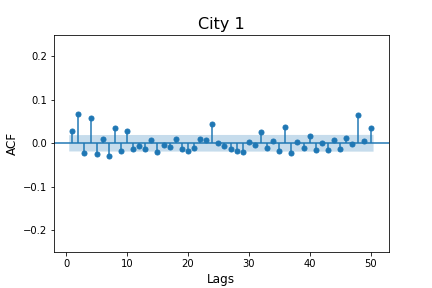
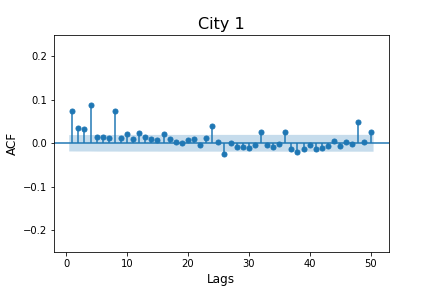
update metrics

Changed region(s): [[0.1505, 0.3438, 0.8125, 0.5625], [0.8125, 0.375, 0.8426, 0.4375], [0.8426, 0.4375, 0.8727, 0.4688]]

diff --git a/src/train.py b/src/train.py
@@ -9,6 +9,7 @@ from .models import LSTM, BiLinearPoolingLSTM, BiLinearPoolingAutoEncoderLSTM
 from .run import run_train, run_test, run_test_direction
 from .vis import results
 
+
 def train_speed_data(num_epochs=10):
     #read data
     print('Reading Data...')
@@ -16,14 +17,12 @@ def train_speed_data(num_epochs=10):
     # input and output size are the number of series (cities)
     output_size = 7
     input_size = [7, 7]
-    # hidden size is number of LSTM units, this means 32 as it's BiLSTM
     hidden_size = 16
-    # Only one layer of LSTM
     num_layers = 1
-    
+    hours_ahead = 10 #1 Hour ahead, change to (2, 5, 10, 20...etc)
+
+    print('Hours ahead: '+str(hours_ahead)+'H')
     print('Training LSTM model...')
-    # build time series features and labels
-    hours_ahead = 1 #1 Hour ahead, change to (5, 10, 50...etc)
     xtrain, xval, ytrain, yval = make_ready_data(train_data, feature='speed',
         gap=hours_ahead)
     xtest, ytest = make_ready_data(test_data, train=False, feature='speed', 
@@ -31,22 +30,18 @@ def train_speed_data(num_epochs=10):
     train_iter, val_iter, test_iter, device = build_dataloader(xtrain, xval, 
         xtest, ytrain, yval, ytest)
 
-    # build the model
     lstm_baseline = LSTM(output_size, input_size, hidden_size, num_layers)
     lstm_baseline = lstm_baseline.to(device)
-    # train the model
+    
     lstm_baseline = run_train(lstm_baseline, train_iter, val_iter, num_epochs=num_epochs, 
         features_set=1)
-    #now we test the model
     y_true, y_preds = run_test(lstm_baseline, test_iter, scaler, features_set=1)
     
-    print('Error Metrics...')
-    #print results
+    print('Error Metrics:')
     results(y_true, y_preds,feature_name = 'speed', plots=False)
 
     
     print('Training BiLinear LSTM model...')
-    # build time series features and labels including temperature time series
     xtrain, xval, ytrain, yval = make_ready_data(train_data, 
         feature='speed',gap=hours_ahead)
     xtrain_temp, xval_temp, _, _ = make_ready_data(train_data, 
@@ -63,32 +58,32 @@ def train_speed_data(num_epochs=10):
                                                            xtest_temp, 
                                                            add_temp=True)
 
-    #build BiLinear LSTM model and train
     lstm_model = BiLinearPoolingLSTM(output_size, input_size, hidden_size, 
         num_layers)
     lstm_model = lstm_model.to(device)
     lstm_model = run_train(lstm_model, train_iter, val_iter, num_epochs=num_epochs)
     y_true, y_preds = run_test(lstm_model, test_iter, scaler)
 
-    print('Error Metrics...')
+    print('Error Metrics:')
     results(y_true, y_preds,feature_name = 'speed', plots=False)
     
     print('Training AutoLSTM...')
-    #build autencoderLSTM model and train
     autoenc_lstm = BiLinearPoolingAutoEncoderLSTM(output_size, input_size, 
         hidden_size, num_layers)
     autoenc_lstm = autoenc_lstm.to(device)
     autoenc_lstm = run_train(autoenc_lstm, train_iter, val_iter, num_epochs=num_epochs, 
         outputs_nr=3)
     y_true, y_preds = run_test(autoenc_lstm, test_iter, scaler, features_set=2, outputs_nr=3)
-    print('Error Metrics...')
+    print('Error Metrics:')
     results(y_true, y_preds, feature_name = 'speed', plots=False)
 
 
 def train_direction_data(num_epochs=10):
     print('Reading Data...')
     train_data, test_data, scaler = read_raw_data()
-    hours_ahead = 1
+    hours_ahead = 10
+    
+    print('Hours ahead: '+str(hours_ahead)+'H')
     xtrain, xval, ytrain, yval = make_wind_direction_data(train_data, 
         gap=hours_ahead)
     xtest, ytest = make_wind_direction_data(test_data, train=False, 
@@ -105,7 +100,6 @@ def train_direction_data(num_epochs=10):
 
 
     print('Training LSTM...')
-    #build LSTM and train
     lstm_model = LSTM(output_size, input_size, hidden_size, num_layers)
     lstm_model = lstm_model.to(device)
     lstm_model = run_train(lstm_model, train_iter, val_iter, num_epochs=num_epochs,
@@ -113,10 +107,9 @@ def train_direction_data(num_epochs=10):
     y_true, y_preds = run_test_direction(lstm_model, test_iter, scaler, 
             features_set=1, output_sine=True)
 
-    print('Error Metrics...')
+    print('Error Metrics:')
     results(y_true, y_preds, feature_name = 'direction', plots=False)
 
-    #build fusion data
     xtrain_temp, xval_temp, _, _ = make_ready_data(train_data, 
             feature='temperature', gap=hours_ahead)
     xtest_temp, _ = make_ready_data(test_data, train=False, 
@@ -130,7 +123,6 @@ def train_direction_data(num_epochs=10):
             add_temp=True)
     
     print('Training BiLinear LSTM...')
-    #build LSTM with fusion and train
     input_size = [14, 7] # cosine+sine features = 14, tempretaure features = 7
     output_size = 14 # cosine+sine features = 14
     lstm_model = BiLinearPoolingLSTM(output_size, input_size, hidden_size, 
@@ -140,11 +132,10 @@ def train_direction_data(num_epochs=10):
     y_true, y_preds = run_test_direction(lstm_model, test_iter, scaler, 
             output_sine=True)
 
-    print('Error Metrics...')
+    print('Error Metrics:')
     results(y_true, y_preds, feature_name = 'direction', plots=False)
 
     print('Training AutoLSTM...')
-    #build AutoencoderLSTM and train
     model = BiLinearPoolingAutoEncoderLSTM(output_size, input_size, hidden_size, 
             num_layers)
     model = model.to(device)
@@ -152,6 +143,6 @@ def train_direction_data(num_epochs=10):
     y_true, y_preds = run_test_direction(model, test_iter, scaler, outputs_nr=3, 
             output_sine=True)
 
-    print('Error Metrics...')
+    print('Error Metrics:')
     results(y_true, y_preds, feature_name = 'direction', plots=False)
 

diff --git a/src/run.py b/src/run.py
@@ -18,7 +18,7 @@ def specs(model):
     return loss_fn, optimizer
 
 
-def validate(model, val_iter, loss_fn, features_set=2):
+def validate(model, val_iter, loss_fn, features_set=2, outputs_nr=1):
     model.eval()
     losses = []
         
@@ -26,13 +26,17 @@ def validate(model, val_iter, loss_fn, features_set=2):
         for data_batch in tqdm(val_iter):
             if features_set == 1:
                 x, y = data_batch
-                outputs = model(x)
+                if outputs_nr == 1:
+                    outputs = model(x)
+                else:
+                    outputs = model(x)[-1]
             else:
                 x1, x2, y = data_batch
-                outputs = model(x1, x2)
-
-            output_idx = -1
-            loss = loss_fn(outputs[output_idx].cpu(), y.cpu())
+                if outputs_nr == 1:
+                    outputs = model(x1, x2)
+                else:
+                    outputs = model(x1, x2)[-1]
+            loss = loss_fn(outputs.cpu(), y.cpu())
             losses.append(loss)
 
     mean_loss = np.mean(losses)
@@ -73,7 +77,7 @@ def run_train(model, train_iter, val_iter, num_epochs=10, features_set=2,
         
         train_loss = np.mean(losses)
         val_loss = validate(model, val_iter, loss_fn, 
-                features_set=features_set) 
+                features_set=features_set, outputs_nr=outputs_nr) 
     
         if epoch % 2 == 0:
             print('Epoch: ', epoch+1, ', Train Loss: ', 

diff --git a/main.py b/main.py
@@ -7,11 +7,11 @@ from src.train import train_speed_data, train_direction_data
 
 
 def main():
-    num_epochs=1
-    #print('Speed Data...')
-    #train_speed_data(num_epochs)
-    print('Direction Data')
-    train_direction_data(num_epochs)
+    num_epochs=10
+    print('Speed Data...')
+    train_speed_data(num_epochs)
+    #print('Direction Data')
+    #train_direction_data(num_epochs)
     
 if __name__ == '__main__':
     main()

diff --git a/README.md b/README.md
@@ -37,21 +37,22 @@ python main.py
 
 #### Error Metrics
 
-| Error | Model                        | 1H ahead | 5H ahead|10H ahead  |50H ahead    |
-|-------| ---------------------------- |:--------:|:-------:|:---------:|:-----------:|
-| MAE   | LSTM Baseline                |  8.99    |  13.73  |   17.74   |  18.91      |
-| MAE   | LSTM+BiLinPooling            |  7.30    |**9.38** |   11.55   |  17.33      | 
-| MAE   | AutoencoderLSTM+BiLinPooling | **6.62** |  9.88   | **10.97** |  **16.45**  |
-| RMSE  | LSTM Baseline                | 11.84    |  17.77  |   22.18   |  24.19      |
-| RMSE  | LSTM+BiLinPooling            | 10.82    |**13.43**|   16.18   |  22.81      |
-| RMSE  | AutoencoderLSTM+BiLinPooling |  **9.12**|  13.67  | **15.97** |  **21.85**  |
+| Error | Model                        | 1H ahead |2H ahead  | 5H ahead|10H ahead  |
+|-------| ---------------------------- |:--------::---------:|:-------:|:---------:|
+| MAE   | LSTM Baseline                |  8.86    | 10.26    |  13.73  |   16.36   | 
+| MAE   | LSTM+BiLinPooling            |  **5.73**| **6.69** |**9.38** |   10.72   | 
+| MAE   | AutoencoderLSTM+BiLinPooling |  6.74    | 7.17     |  9.88   | **10.97** | 
+|----------------------------------------------------------------------------------|
+| RMSE  | LSTM Baseline                |  11.72   | 13.49    |  17.77  |   20.95   | 
+| RMSE  | LSTM+BiLinPooling            |  **9.11**| **10.42**|**13.43**|   15.42   |  
+| RMSE  | AutoencoderLSTM+BiLinPooling |  9.54    |  10.46   |  13.67  | **15.97** | 
 
 #### Error Diagnostics for LSTM+BiLinPooling using wind speed data
-| City 1  | City 2 | City 6 |
+| City 1  | City 5 | City 7 |
 |---------------| ---------------------------|-------------------------------------- |
-| ![alt text](https://github.com/mhmdrdwn/NLweather/blob/main/plots/city1_error.png) | ![alt text](https://github.com/mhmdrdwn/NLweather/blob/main/plots/city2_error.png) | ![alt text](https://github.com/mhmdrdwn/NLweather/blob/main/plots/city6_error.png) |
+| ![alt text](https://github.com/mhmdrdwn/NLweather/blob/main/plots/city1_error.png) | ![alt text](https://github.com/mhmdrdwn/NLweather/blob/main/plots/city5_error.png) | ![alt text](https://github.com/mhmdrdwn/NLweather/blob/main/plots/city7_error.png) |
 
-**The ACF of the errors suggests that there is still a pattern in the residuals. This means the model is still not optimal which maybe can be optimized....**
+**The ACF of the errors suggests that there is still a little patterns in the test residuals that should have been captured by the model or another model. This means the model can still be optimized**
 
 #### Sample Visualization
 
@@ -64,31 +65,21 @@ python main.py
 
 #### Error Metrics (Sine of Degrees)
 
-| Error | Model                        | 1H ahead  | 5H ahead  |10H ahead  |50H ahead  |
-|-------| ---------------------------- |:---------:|:---------:|:---------:|:---------:|
-| MAE   | LSTM Baseline                |  0.196    |  0.305    |   0.388   |  0.537    |
-| MAE   | LSTM+BiLinPooling            |  0.165    |  0.249    |   0.290   |  0.494    |
-| MAE   | AutoencoderLSTM+BiLinPooling |  **0.163**|  **0.238**| **0.286** |  **0.470**|
-| RMSE  | LSTM Baseline                |  0.289    |  0.418    |   0.506   |  0.637    |
-| RMSE  | LSTM+BiLinPooling            |  **0.241**|  0.347    |   0.407   |  0.599    |
-| RMSE  | AutoencoderLSTM+BiLinPooling |  0.244    |  **0.338**| **0.396** |  **0.576**|
+| Error | Model                        | 1H ahead  | 2H ahead | 5H ahead  |10H ahead  |
+|-------| ---------------------------- |:---------:|:--------:|:---------:|:---------:|
+| MAE   | LSTM Baseline                |  0.196    | 0.222    |  0.305    |   0.388   | 
+| MAE   | LSTM+BiLinPooling            |  0.165    | **0.165**|  0.249    |   0.290   | 
+| MAE   | AutoencoderLSTM+BiLinPooling |  **0.163**| 0.169    | **0.238** | **0.286** | 
+| RMSE  | LSTM Baseline                |  0.289    | 0.318    |  0.418    |   0.506   | 
+| RMSE  | LSTM+BiLinPooling            |  **0.241**| **0.258**|  0.347    |   0.407   | 
+| RMSE  | AutoencoderLSTM+BiLinPooling |  0.244    | 0.259    | **0.338** | **0.396** | 
 
 
 #### Error Metrics (Degrees)
 
 **N.B. Degrees can be misleading as directions 0 and 360 are equal, but it is here for visualization**
 
-| Error | Model                        | 1H ahead  | 5H ahead  |10H ahead  |50H ahead    |
-|-------| ---------------------------- |:---------:|:---------:|:---------:|:-----------:|
-| MAE   | LSTM Baseline                |  29.08    |  43.29    |   54.65   |  69.39      | 
-| MAE   | LSTM+BiLinPooling            |  **22.95**|  34.20    |   41.69   |  65.93      | 
-| MAE   | AutoencoderLSTM+BiLinPooling |  24.19    |**32.89**  | **39.87** | **65.72**   |
-| RMSE  | LSTM Baseline                |  65.07    |  78.30    |   86.88   | **91.49**   |
-| RMSE  | LSTM+BiLinPooling            |  **58.74**|  70.59    |   77.69   |  93.05      |
-| RMSE  | AutoencoderLSTM+BiLinPooling |  60.17    |**68.56**  | **74.79** |    94.68    |
-
-
-#### Sample Visualization
+#### Sample Visualization (Degrees of first 500 time steps of City 1)
 
 | Vanilla LSTM  | LSTM with BiLinear Pooling | AutoencoderLSTM with BiLinear Pooling |
 |---------------| -------------------------- | ------------------------------------- |
